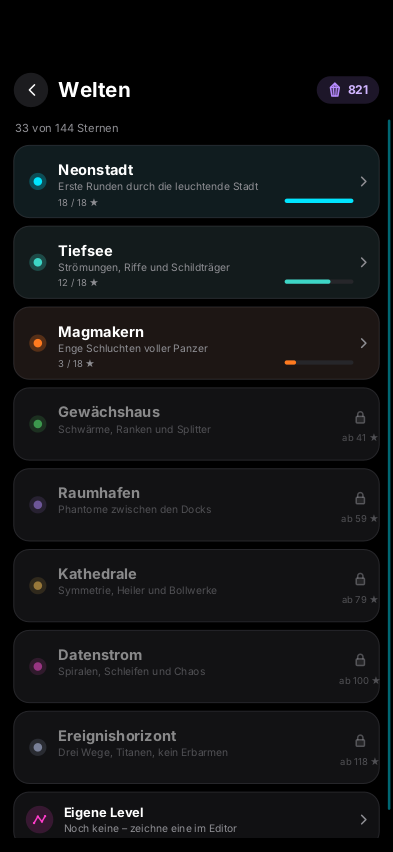
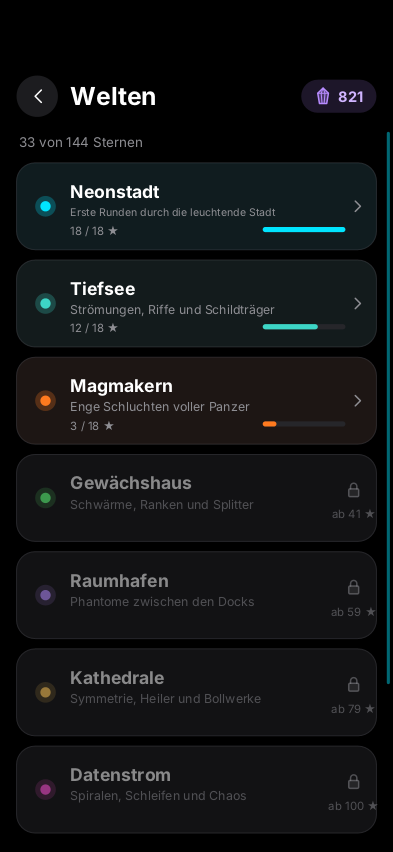
Ganzer Bildschirm auf dem iPhone und UI in nativer Größe
Home-Bildschirm-App auf dem iPhone: Der Browser meldet dort eine zu kleine
Fensterhöhe (unten fehlte ein Streifen in Höhe des Home-Indikators, der Rand
wurde zusätzlich noch einmal abgezogen). Jetzt gilt in der App die echte
Bildschirmhöhe – Spielfeld und Seiten reichen bis ganz nach unten, die Karte
wird im Hochformat rund 12 % größer.

UI-Einheit: auf dem Handy nach der kurzen Seite (≈ 380 pt = 1) statt auf 0,86
geschrumpft – Text und Tippflächen sind so groß wie in nativen Apps. Lange
Untertitel werden dafür abgeschnitten statt überzulaufen (Ergebnis-Blätter,
Tages-Challenge).

Claude-Session: https://claude.ai/code/session_014J5gULw6AJPbmXLQkmg7HC

diff --git a/core/src/main/java/neontd/scene/GameScene.java b/core/src/main/java/neontd/scene/GameScene.java
@@ -2382,7 +2382,8 @@ public final class GameScene extends Scene {
         }
         g.text(title, sx + pad, y, 22 * u, overlay == Overlay.PAUSE ? Theme.TEXT : color, Gfx.ALIGN_LEFT, true);
         String sub = level.name + (world.endless ? "  ·  Endlos" : "") + (editorReturn != null ? "  ·  Testspiel" : "");
-        Draw.fit(g, sub, sx + sw - pad, y, 13 * u, sw * 0.5, Theme.MUTED, Gfx.ALIGN_RIGHT, false);
+        double titleW = g.textWidth(title, 22 * u, true);
+        Draw.cut(g, sub, sx + sw - pad, y, 13 * u, sw - 2 * pad - titleW - 14 * u, Theme.MUTED, Gfx.ALIGN_RIGHT, false);
         y += 34 * u;
         if (overlay != Overlay.PAUSE) {
             if (overlay == Overlay.WON && !world.endless && level.builtin && progressOn) {
@@ -2443,9 +2444,11 @@ public final class GameScene extends Scene {
     /** Inhalt des Blatts in der Arena: Pause mit Zwischenstand bzw. Ergebnis mit Platz, Rekord und Abstand. */
     private void drawArenaSheet(Gfx g, double sx, double y, double sw, double pad, double u) {
         boolean pause = overlay == Overlay.PAUSE;
-        g.text(pause ? "Pause" : "Lauf beendet", sx + pad, y, 22 * u, pause ? Theme.TEXT : Theme.ACCENT, Gfx.ALIGN_LEFT, true);
-        Draw.fit(g, "Arena " + arena.label() + "  ·  " + level.name, sx + sw - pad, y, 13 * u, sw * 0.5, Theme.MUTED,
-                Gfx.ALIGN_RIGHT, false);
+        String head = pause ? "Pause" : "Lauf beendet";
+        g.text(head, sx + pad, y, 22 * u, pause ? Theme.TEXT : Theme.ACCENT, Gfx.ALIGN_LEFT, true);
+        double headW = g.textWidth(head, 22 * u, true);
+        Draw.cut(g, "Arena " + arena.label() + "  ·  " + level.name, sx + sw - pad, y, 13 * u,
+                sw - 2 * pad - headW - 14 * u, Theme.MUTED, Gfx.ALIGN_RIGHT, false);
         y += 34 * u;
         if (pause) {
             String line = Fmt.points(world.score) + " Punkte  ·  ×" + Fmt.one(world.multiplier()) + "  ·  Welle "

diff --git a/web/src/main/java/neontd/web/WebMain.java b/web/src/main/java/neontd/web/WebMain.java
@@ -32,6 +32,11 @@ public final class WebMain {
     private boolean firstFrame = true;
     private int frameCounter;
     private int errorCount;
+    /**
+     * Home-Bildschirm-App auf dem iPhone: Dort meldet der Browser eine zu kleine Fensterhöhe (unten fehlt ein Streifen
+     * in Höhe des Home-Indikators). Dann gilt die echte Bildschirmhöhe – so füllt das Spiel den ganzen Bildschirm.
+     */
+    private final boolean iosApp = Js.iosStandalone();
 
     private WebMain(HTMLCanvasElement canvas, boolean touch) {
         this.canvas = canvas;
@@ -176,9 +181,16 @@ public final class WebMain {
 
     // -------------------------------------------------------------------------------------------- Größe
 
-    private void resize() {
+    /** Höhe der Zeichenfläche: Fensterhöhe, in der iPhone-App mindestens die Bildschirmhöhe. */
+    private double viewHeight() {
         double w = Js.innerWidth();
         double h = Js.innerHeight();
+        return iosApp ? Math.max(h, Js.screenHeight(h >= w)) : h;
+    }
+
+    private void resize() {
+        double w = Js.innerWidth();
+        double h = viewHeight();
         double l = Js.safeInset(0);
         double t = Js.safeInset(1);
         double r = Js.safeInset(2);
@@ -329,7 +341,7 @@ public final class WebMain {
         // Größenänderungen ohne Ereignis abfangen (z. B. einklappende Safari-Leisten): Die Fenstergröße prüfen wir
         // jeden Frame (billig), die Sicherheitsränder – dafür muss der Browser Stile auswerten – nur gelegentlich.
         frameCounter++;
-        if (Js.innerWidth() != lastW || Js.innerHeight() != lastH || frameCounter % 30 == 0) {
+        if (Js.innerWidth() != lastW || viewHeight() != lastH || frameCounter % 30 == 0) {
             resize();
         }
         gfx.begin(lastW, lastH, dpr);

diff --git a/core/src/main/java/neontd/ui/Viewport.java b/core/src/main/java/neontd/ui/Viewport.java
@@ -13,7 +13,10 @@ public final class Viewport {
     public double insetT;
     public double insetR;
     public double insetB;
-    /** UI-Einheit: 1 = Entwurfsgröße (Fensterhöhe ≈ 560 px). Mindestens 0,86 (Handy: 10 % größer als zuvor), damit Tippflächen groß genug bleiben. */
+    /**
+     * UI-Einheit: 1 = Entwurfsgröße (Fensterhöhe ≈ 560 px). Auf dem Handy richtet sie sich nach der kurzen Seite
+     * (≈ 380 pt ergeben 1): Text und Tippflächen haben dort dieselbe Größe wie in nativen Apps statt geschrumpft.
+     */
     public double u = 1;
 
     public void set(double w, double h, double l, double t, double r, double b) {
@@ -24,7 +27,8 @@ public final class Viewport {
         this.insetR = r;
         // Der Home-Indikator ist nur eine dünne Leiste ganz unten: nur ein Drittel des Randes freihalten, den Rest nutzen.
         this.insetB = b * 0.3;
-        this.u = Mathx.clamp(Math.min(w, h) / 560.0, 0.86, 2.0);
+        double shortSide = Math.min(w, h);
+        this.u = Mathx.clamp(Math.max(shortSide / 560.0, Math.min(1.05, shortSide / 380.0)), 0.86, 2.0);
     }
 
     public double safeX() {

diff --git a/core/src/main/java/neontd/scene/DailyScene.java b/core/src/main/java/neontd/scene/DailyScene.java
@@ -97,10 +97,10 @@ public final class DailyScene extends PanelScene {
         double rh = 60 * u;
         Draw.card(g, x, y, w, rh, 16 * u, 0);
         Draw.iconBadge(g, x + 30 * u, y + rh / 2, 16 * u, Icon.WAVES, Theme.ACCENT);
-        g.text(best > 0 ? "Deine beste Welle heute: " + best : "Noch nicht gespielt", x + 58 * u, y + rh / 2 - 8 * u, 14 * u,
-                Theme.TEXT, Gfx.ALIGN_LEFT, true);
-        g.text("Ab Welle " + Daily.REWARD_WAVE + ": +" + Daily.REWARD + " Kristalle  ·  Endlosmodus, zählt die weiteste Welle",
-                x + 58 * u, y + rh / 2 + 10 * u, 11 * u, Theme.MUTED, Gfx.ALIGN_LEFT, false);
+        Draw.fit(g, best > 0 ? "Deine beste Welle heute: " + best : "Noch nicht gespielt", x + 58 * u, y + rh / 2 - 8 * u,
+                14 * u, w - 72 * u, Theme.TEXT, Gfx.ALIGN_LEFT, true);
+        Draw.cut(g, "Ab Welle " + Daily.REWARD_WAVE + ": +" + Daily.REWARD + " Kristalle  ·  Endlos, die weiteste Welle zählt",
+                x + 58 * u, y + rh / 2 + 10 * u, 11 * u, w - 72 * u, Theme.MUTED, Gfx.ALIGN_LEFT, false);
         y += rh + 12 * u;
 
         // Bestenliste des Tages

diff --git a/web/src/main/java/neontd/web/Js.java b/web/src/main/java/neontd/web/Js.java
@@ -74,6 +74,18 @@ final class Js {
     @JSBody(params = {}, script = "return window.innerHeight;")
     static native double innerHeight();
 
+    /** Läuft die Seite als Home-Bildschirm-App auf iPhone/iPad? */
+    @JSBody(params = {}, script = "var u = navigator.userAgent || '';"
+            + "var ios = /iphone|ipad|ipod/i.test(u) || (navigator.platform === 'MacIntel' && navigator.maxTouchPoints > 1);"
+            + "var st = false; try { st = navigator.standalone === true || window.matchMedia('(display-mode: standalone)').matches; } catch (e) {}"
+            + "return ios && st;")
+    static native boolean iosStandalone();
+
+    /** Bildschirmhöhe in der aktuellen Ausrichtung (CSS-Pixel). */
+    @JSBody(params = {"portrait"}, script = "var a = screen.width, b = screen.height;"
+            + "return portrait ? Math.max(a, b) : Math.min(a, b);")
+    static native double screenHeight(boolean portrait);
+
     @JSBody(params = {}, script = "return window.devicePixelRatio || 1;")
     static native double devicePixelRatio();
 

diff --git a/core/src/test/java/neontd/scene/GameFlowTest.java b/core/src/test/java/neontd/scene/GameFlowTest.java
@@ -443,7 +443,8 @@ class GameFlowTest {
         h.app.goTo(new ProfileScene(h.app));
         h.run(1.5);
         // Name liegt oben in der Kopfkarte: antippen öffnet die Namensseite
-        h.tap(250, 130);
+        double[] nameAt = ((ProfileScene) h.app.scene()).anchor("name");
+        h.tap(nameAt[0], nameAt[1]);
         h.run(1.0);
         assertEquals("NameScene", h.scene());
         NameScene ns = (NameScene) h.app.scene();
